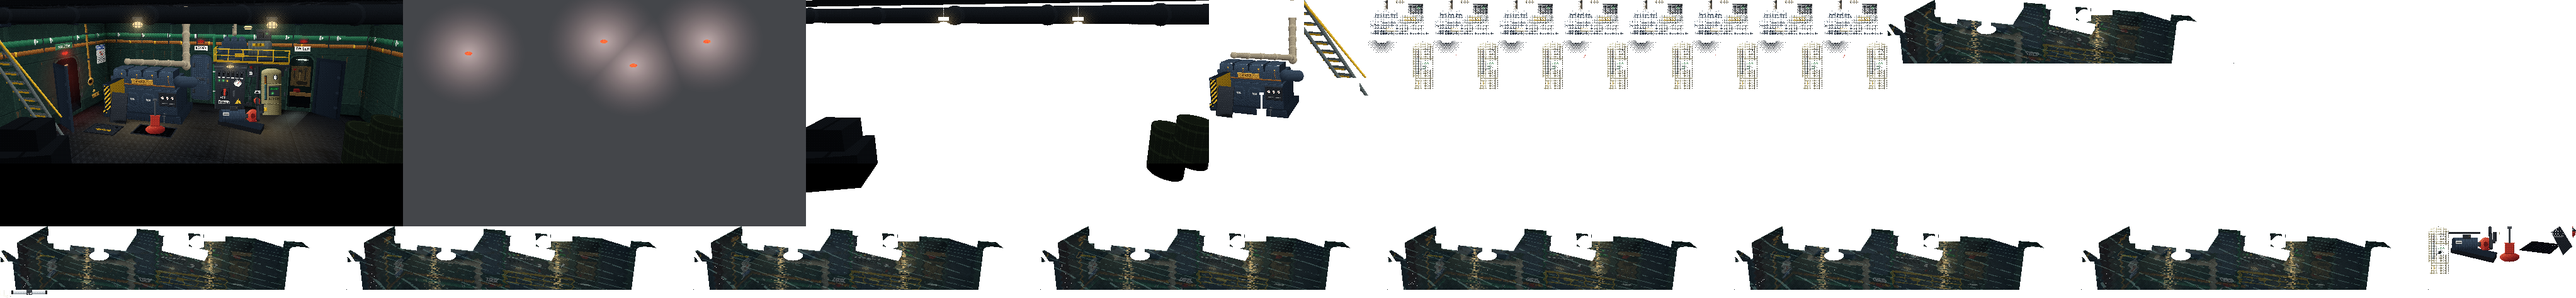
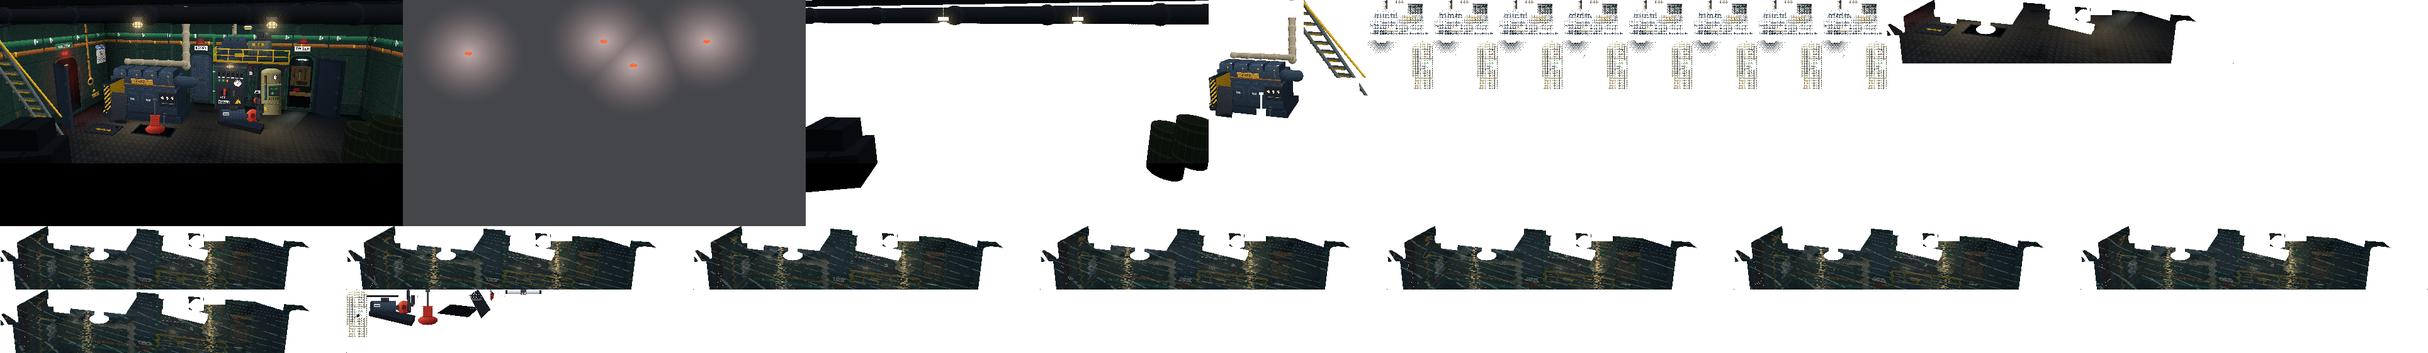
Ni un ou: en engegar la bomba, l'aigua de la sentina baixa a poc a poc i la sala tremola (240)

diff --git a/games/ni-un-ou/adapters/benne/tools/hd640/rooms/sala_maquines.py b/games/ni-un-ou/adapters/benne/tools/hd640/rooms/sala_maquines.py
@@ -770,7 +770,20 @@ def fosc(cv):
                 P[X, Y] = (255, 80 + int(60 * hr(X, Y)), 60, 255)
 
 
-PROPS = {'aigua': aigua, 'valvula_tancada': valvula_tancada, 'brida': brida, 'fosc': fosc,
+def terra_sec(cv):
+    """El terra sec, només on hi ha l'aigua: damunt de l'aigua, es fon de transparent a opac mentre la bomba la buida
+    (tasca 240), i llavors s'amaguen tots dos."""
+    img, e = _base()
+    terra = {i for i, sid in enumerate(e.ids) if sid in AIGUA}
+    src, P = img.load(), cv.img.load()
+    for Y in range(60, BOTTOM + 1):
+        for X in range(W):
+            if e.amo[Y * W + X] in terra:
+                P[X, Y] = src[X, Y][:3] + (255,)
+    cv.P = cv.img.load()
+
+
+PROPS = {'aigua': aigua, 'terra_sec': terra_sec, 'valvula_tancada': valvula_tancada, 'brida': brida, 'fosc': fosc,
          'sentina_oberta': _decorat('sentina_oberta')}
 
 
